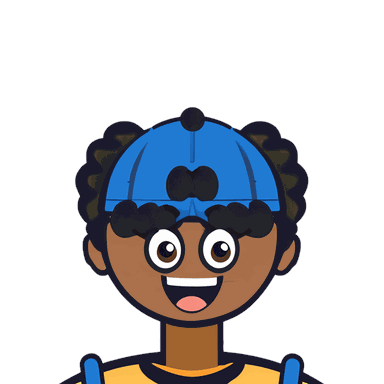
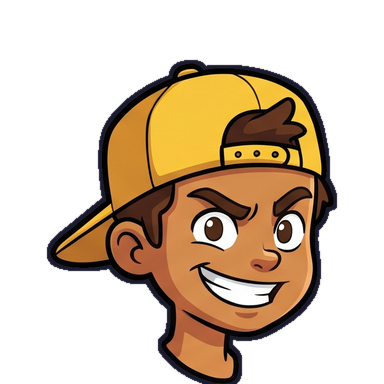
언더독 피구 v=35: 27명 얼굴 새 그림체(재미나이), 경기 얼굴도 같은 그림

diff --git a/games/wobble-dodge/js/render.js b/games/wobble-dodge/js/render.js
@@ -72,14 +72,14 @@
   }
   function star5(c, x, y, r) { c.beginPath(); for (var i = 0; i < 10; i++) { var a = -Math.PI / 2 + i * Math.PI / 5, q = i % 2 ? r * 0.45 : r; c.lineTo(x + Math.cos(a) * q, y + Math.sin(a) * q); } c.closePath(); c.fill(); }
   G.drawHat = drawHat;
-  /* ---------- in-match face heads: one small sprite sheet (art_game/faces/heads_64.png ~25 KB, or heads_96.png on hi-dpi; made by art/faces/gen_ingame.py).
-     Cell = 3.2R square, face circle centre at (1.6R, 2.1R), radius R, 6 x 4 cells in G.CHARS order. Not fetched before the first
+  /* ---------- in-match face heads: one small sprite sheet (art_game/faces/heads_match_64.png, or _96 on hi-dpi; 2026-11-09 front art made by art_new/tools/match.py,
+     mirrored by facing; the old side sheets heads_side_* stay on disk for A/B).
+     Cell = 3.2R square, face circle centre at (1.6R, 2.1R), radius R, 6 x 5 cells in G.CHARS order. Not fetched before the first
      input, so it never competes with the first "TAP TO PLAY"; a match decides once (before the ball is live) whether it
      shows faces, so heads never pop mid-rally. G.faceHeads = false -> the old drawn heads (A/B and fallback). */
   var HD = { ok: false, img: null, white: null, cell: 64, n: 24 }, FR = 13.5 * 1.4, COSM = { star: 1, flower: 1, wizard: 1, pirate: 1, viking: 1, goldcrown: 1 };
   // tight box of each face inside its cell, in 1/64 cell units (x, y, w, h): only these pixels are drawn (about half the cell = half the raster work)
-  var HBOX = [6,0,52,64,11,1,47,63,0,21,58,43,10,0,48,64,9,0,49,64,8,0,50,64,10,7,50,57,10,16,54,48,11,10,47,54,11,10,47,54,8,5,52,59,7,10,51,54,3,10,55,54,10,19,48,45,0,20,58,44,11,20,47,44,0,21,58,43,7,10,51,54,10,0,50,64,10,9,54,55,11,20,47,44,11,0,47,64,9,7,49,57,9,19,49,45,
-    1,13,58,51,0,12,58,52];   // side-view sheet (art/faces/side/HBOX_side.txt) + row 5: hero, Dex (art/faces/story/post_story.py)
+  var HBOX = [8,5,48,59,9,3,45,61,4,10,55,54,7,2,49,62,8,3,47,61,12,12,39,52,9,7,46,57,8,13,47,51,12,4,40,60,10,11,43,53,8,6,48,58,10,7,43,57,2,6,59,58,9,5,46,59,10,13,43,51,6,9,52,55,1,7,62,57,8,9,48,55,10,1,44,63,8,14,48,50,8,10,48,54,12,11,39,53,5,7,54,57,10,13,43,51,10,8,43,56,6,5,52,59,5,10,53,54];   // heads_match sheet, all 27 G.CHARS (art_new/tools/match.py -> match_js.txt)
   G.faceHeads = true; G.headSheet = HD;
   (function () {
     var vq = (/\?v=[^&#]*/.exec((document.currentScript && document.currentScript.src) || '') || [''])[0];
@@ -92,12 +92,12 @@
             g.drawImage(im, 0, 0); g.globalCompositeOperation = 'source-atop'; g.fillStyle = 'rgba(255,255,255,0.78)'; g.fillRect(0, 0, w.width, w.height);
             HD.white = w;
           } catch (e) { HD.white = im; }
-          HD.img = im; HD.cell = im.width / 6; HD.n = Math.min(G.GOLDBOSS || G.CHARS.length, Math.round(im.height / HD.cell) * 6, HBOX.length / 4); HD.ok = true;   // faces for the 0..23 roster only; gold boss(24)+ use the drawn head
+          HD.img = im; HD.cell = im.width / 6; HD.n = Math.min(G.CHARS.length, Math.round(im.height / HD.cell) * 6, HBOX.length / 4); HD.ok = true;   // every character incl. gold boss / hero / Dex
         }
         if (im.decode) im.decode().then(fin, fin); else fin();
       };
       // 64 px cells (face R 20) for 1x screens / LITE (the slow-laptop case); 96 px cells (R 30, ~42 KB) on hi-dpi so faces stay sharp
-      im.src = 'art_game/faces/heads_side_' + ((window.devicePixelRatio || 1) >= 1.5 && !G.lite ? 96 : 64) + '.png' + vq;
+      im.src = 'art_game/faces/heads_match_' + ((window.devicePixelRatio || 1) >= 1.5 && !G.lite ? 96 : 64) + '.png' + vq;
     }
     // first load stays untouched (검증/select_kof: no face art before the first tap): fetch on the first input, or when a match
     // that is not the waiting tutorial gets drawn. The tap that starts the tutorial leaves ~0.3 s of intro, usually enough.
@@ -115,14 +115,7 @@
     var ch = b.ch, cs = HD.cell, R = FR, u = cs / 64, d = 0.05 * R, j = ch * 4, bx = HBOX[j], by = HBOX[j + 1], bw = HBOX[j + 2], bh = HBOX[j + 3];
     if (e === 1 || e === 2) c.scale(1.07, 0.9);   // hit / KO squash
     c.drawImage(b.flash > 0 ? HD.white : HD.img, (ch % 6) * cs + bx * u, ((ch / 6) | 0) * cs + by * u, bw * u, bh * u, -1.6 * R + bx * d, -2.1 * R + by * d, bw * d, bh * d);
-    if (e === 2 || e === 1) {   // KO = X eyes, hit = > < eyes, stuck on over the art's eyes
-      var ex = 0.51 * R, ey = -0.08 * R, er = 0.27 * R, q = 0.17 * R;   // side view: one eye, forward of centre
-      c.fillStyle = '#fff'; c.beginPath(); c.arc(ex, ey, er, 0, TAU); c.fill();
-      c.strokeStyle = INK; c.lineWidth = 0.13 * R; c.lineCap = 'round'; c.beginPath();
-      if (e === 2) { c.moveTo(ex - q, ey - q); c.lineTo(ex + q, ey + q); c.moveTo(ex + q, ey - q); c.lineTo(ex - q, ey + q); }
-      else { c.moveTo(ex - q, ey - q); c.lineTo(ex + q, ey); c.lineTo(ex - q, ey + q); }
-      c.stroke();
-    }
+    // (the side sheet stuck > < / X eyes on its one eye here; the front art has two eyes in different spots per face, so hit/KO = flash + squash only)
     if (COSM[b.hat]) { c.save(); c.translate(0, -R * 0.62); c.scale(1.05, 1.05); drawHat(c, b.hat, now); c.restore(); }   // earned cosmetic hat on top of the art
   }
   var P = new Float32Array(22), SHADE = {};
@@ -139,9 +132,7 @@
      team-colour jersey, white shorts + belly stripe) in a hip->neck frame; plain fills measured cheaper than strokes or a
      rotated sprite. No shadows / filters. LITE tier: no ink under legs / back arm (front arm + jersey keep theirs).
      Cost vs the stick bodies: 검증/body_perf.mjs (G.cartoonBody = false draws the old renderer for A/B). */
-  var SKIN = ['#f9b7db', '#b5d55c', '#f8e5cb', '#fb9355', '#ca81f8', '#58ccf8', '#f8d72c', '#26c2b9', '#eccbf5', '#ee3b38', '#f4ad7f', '#d1eb63',
-    '#6ddaf9', '#ede8f4', '#5b83a5', '#f7a576', '#f0caa9', '#f9b7db', '#f98b4e', '#f9ebaf', '#494a6d', '#f8d72c', '#dcf1f9', '#87cf55',
-    '#f7c693', '#ae673d'];   // sampled from heads_96.png (G.CHARS order); last two = the story kids (hero, Dex)
+  var SKIN = ['#fca5b8', '#72b263', '#f7bb89', '#fd9552', '#7c579a', '#8eceed', '#fdde0a', '#4bb4a9', '#e8c9eb', '#e4433e', '#f3b584', '#c9e251', '#9ad3ed', '#d3dae2', '#36588d', '#fd8d4e', '#e7ba88', '#feacb3', '#febc84', '#fae9c5', '#43567c', '#fddc13', '#c3defb', '#71b87b', '#f8c7a6', '#f9bb8b', '#d38b4d'];   // arm/neck colour sampled from the heads_match art (G.CHARS order, 27)
   var TORSO = {}, TL = 31, OL = 2.3;   // neck-hip length in skeleton units, ink outline thickness
   // local frame: hip = (0,0), neck = (0,-TL); o grows the shape by o on every side (for the ink silhouette)
   function jersey(P, th, o) {

diff --git a/games/wobble-dodge/index.html b/games/wobble-dodge/index.html
@@ -188,13 +188,13 @@ input{user-select:text;-webkit-user-select:text;font:inherit;border:3px solid #1
     <button class="btn" id="bQuit" data-i18n="menu"></button>
   </div>
 </div>
-<script src="js/i18n.js?v=34"></script>
-<script src="js/audio.js?v=34"></script>
-<script src="js/sdk.js?v=34"></script>
-<script src="js/meta.js?v=34"></script>
-<script src="js/game.js?v=34"></script>
-<script src="js/render.js?v=34"></script>
-<script src="js/net.js?v=34"></script>
-<script src="js/main.js?v=34"></script>
+<script src="js/i18n.js?v=35"></script>
+<script src="js/audio.js?v=35"></script>
+<script src="js/sdk.js?v=35"></script>
+<script src="js/meta.js?v=35"></script>
+<script src="js/game.js?v=35"></script>
+<script src="js/render.js?v=35"></script>
+<script src="js/net.js?v=35"></script>
+<script src="js/main.js?v=35"></script>
 </body>
 </html>
